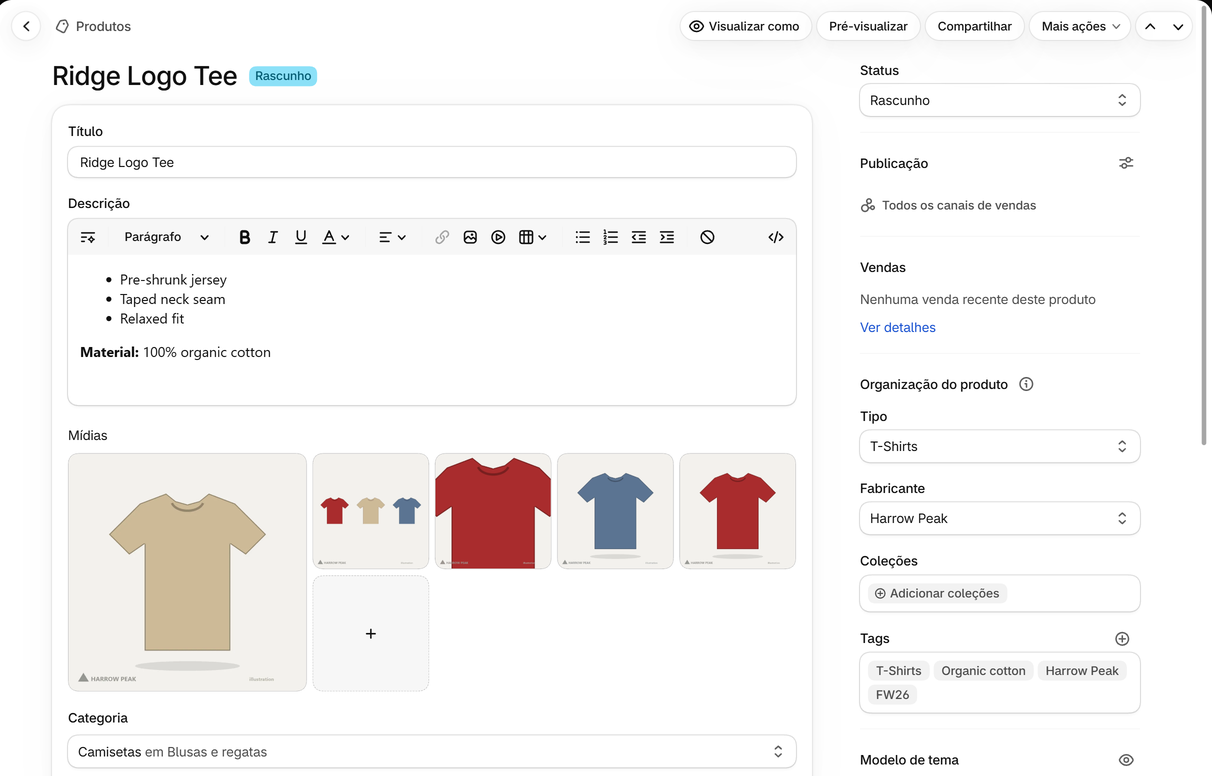
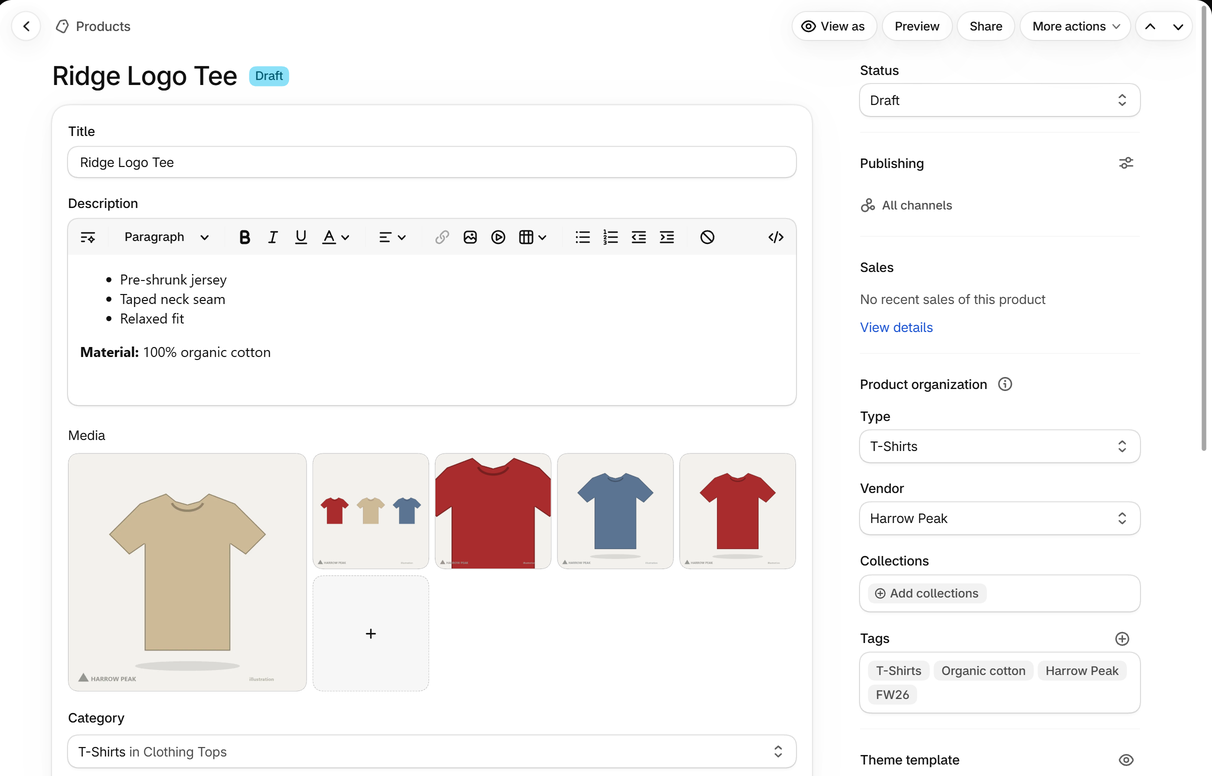
Home: add mini-case 06 (supplier file to Shopify)
Lists the mini-case on the home page so the site builds its page, and
replaces the two store screenshots with the admin in English.

diff --git a/minicases/06-supplier-file-to-shopify/index.html b/minicases/06-supplier-file-to-shopify/index.html
@@ -1,0 +1,348 @@
+<!doctype html>
+<html lang="en">
+<head>
+<meta charset="utf-8">
+<meta name="viewport" content="width=device-width, initial-scale=1">
+<title>Supplier price list to Shopify import: every row accounted for, and next month&#x27;s update in one run · Guilherme Teófilo</title>
+<meta name="description" content="Data cleaning, ETL, automation, web scraping and dashboards in Python, SQL, Excel and Looker Studio, with every number checked against its source.">
+<style>
+  :root { color-scheme: light; --page:#f9f9f7; --surface:#ffffff; --ink:#0b0b0b; --ink2:#52514e; --muted:#898781;
+          --line:#e1e0d9; --accent:#2a78d6; --code:#f3f2ee; }
+  @media (prefers-color-scheme: dark) {
+    :root { color-scheme: dark; --page:#0d0d0d; --surface:#1a1a19; --ink:#f0efec; --ink2:#c3c2b7; --muted:#898781;
+            --line:#2c2c2a; --accent:#3987e5; --code:#232322; }
+  }
+  * { box-sizing: border-box; }
+  body { margin:0; background:var(--page); color:var(--ink); font:16px/1.6 system-ui,-apple-system,"Segoe UI",sans-serif; }
+  header { border-bottom:1px solid var(--line); background:var(--surface); }
+  .bar { max-width:980px; margin:0 auto; padding:12px 16px; display:flex; gap:16px; align-items:center; flex-wrap:wrap; }
+  .brand { font-weight:700; color:var(--ink); text-decoration:none; margin-right:auto; }
+  .bar a.nav { color:var(--ink2); text-decoration:none; font-size:15px; }
+  .bar a.nav:hover { color:var(--accent); }
+  main { max-width:980px; margin:0 auto; padding:24px 16px 48px; }
+  h1 { font-size:30px; line-height:1.25; margin:8px 0 16px; }
+  h2 { font-size:22px; margin:36px 0 12px; padding-top:8px; border-top:1px solid var(--line); }
+  a { color:var(--accent); }
+  img { max-width:100%; height:auto; border:1px solid var(--line); border-radius:8px; }
+  blockquote { margin:16px 0; padding:10px 16px; border-left:4px solid var(--accent); background:var(--surface); color:var(--ink2); }
+  blockquote p { margin:4px 0; }
+  .table-wrap { overflow-x:auto; margin:16px 0; }
+  table { border-collapse:collapse; width:100%; font-size:15px; background:var(--surface); }
+  th, td { border:1px solid var(--line); padding:8px 10px; text-align:left; vertical-align:top; }
+  th { background:var(--code); }
+  td img { border:none; }
+  code { background:var(--code); padding:1px 5px; border-radius:4px; font-size:14px; }
+  pre { background:var(--code); padding:12px 14px; border-radius:8px; overflow-x:auto; }
+  pre code { padding:0; background:none; }
+  pre.mermaid { background:var(--surface); border:1px solid var(--line); text-align:center; }
+  footer { max-width:980px; margin:0 auto; padding:16px 16px 40px; color:var(--muted); font-size:13px; border-top:1px solid var(--line); }
+</style>
+</head>
+<body>
+<header><div class="bar">
+  <a class="brand" href="../../">Guilherme Teófilo · Data analyst</a>
+  <a class="nav" href="../../#case-studies">Case studies</a>
+  <a class="nav" href="../../#mini-cases">Mini-cases</a>
+  <a class="nav" href="../../output/2026-10/dashboard.html">Live dashboard</a>
+  <a class="nav" href="https://github.com/guilhermelt-22/data-portfolio">Code on GitHub</a>
+</div></header>
+<main>
+<h1 id="supplier-price-list-to-shopify-import-every-row-accounted-for-and-next-months-update-in-one-run">Supplier price list to Shopify import: every row accounted for, and next month's update in one run</h1>
+<blockquote>
+<p><strong>Demonstration with fictitious data.</strong> Harrow Peak Wholesale, its products and barcodes are invented. The
+product images are simple illustrations drawn by code (<a href="https://github.com/guilhermelt-22/data-portfolio/blob/main/minicases/06-supplier-file-to-shopify/vendorfeed/art.py"><code>art.py</code></a>) and served from this
+site. The output follows the column list of Shopify's own sample product CSV and the rules in Shopify's Help
+Center, and both months were imported into a Shopify development store on 13 Nov 2026: products, variants,
+stock, status and prices matched the files (details below).</p>
+</blockquote>
+<p><img alt="Import report" src="img/report.png" /></p>
+<div class="table-wrap"><table>
+<thead>
+<tr>
+<th></th>
+<th></th>
+</tr>
+</thead>
+<tbody>
+<tr>
+<td><strong>Task</strong></td>
+<td>A store owner gets the supplier's price list in Excel every month and needs it in Shopify's product CSV: one product per style, colour and size as variants, prices, stock, barcodes and images. Doing it by hand takes hours each time the supplier updates prices.</td>
+</tr>
+<tr>
+<td><strong>Solution</strong></td>
+<td>Python and pandas · finds the header under title rows and maps renamed columns · standardises colours, sizes, weights and barcodes · writes Shopify's 61-column format · 11 checks against Shopify's rules before upload · next month: a change report and three update files</td>
+</tr>
+<tr>
+<td><strong>Records</strong></td>
+<td>First list: <strong>343 product rows</strong> → <strong>37 products, 314 variants</strong>, 8 rows held back with a question each. Second list: <strong>31 price changes</strong>, 3 new products, 6 new variants, 3 products to archive</td>
+</tr>
+<tr>
+<td><strong>Time</strong></td>
+<td><strong>0.7 seconds</strong> for the first import · <strong>0.9 seconds</strong> for next month's update, change report included</td>
+</tr>
+</tbody>
+</table></div>
+<h2 id="how-it-works">How it works</h2>
+<ol>
+<li><strong>Read the file as it arrives.</strong> The header is found wherever it is (here on row 4, under the supplier's
+   name and a note). Title rows, category banners and footer notes are labelled and set aside. Column names are
+   matched through a list of aliases, so next month's file can say "SKU" instead of "Item #" and "Retail"
+   instead of "MSRP", in a different order, and still read the same.</li>
+<li><strong>Clean each field, and log every change with its row number.</strong> "NVY", "navy" and "Navy" become Navy;
+   "LG", "lrg" and "Large" become L; "3.2 oz", "1.1 lbs" and "0.38 kg" become grams; "$12.50" becomes 12.50.
+   Product titles come from the shared start of the variants' descriptions ("MERINO HIKER SOCK NVY S" →
+   Merino Hiker Sock), and handles from the titles.</li>
+<li><strong>Never guess where the store owner should decide.</strong> The same SKU twice with different prices, two SKUs for
+   the same colour and size, or a row with no price at all is held back, with the question to answer. A
+   missing retail price is filled by a markup rule the store owner sets (here wholesale × 2, ending in .99) and
+   flagged for confirmation.</li>
+<li><strong>Write Shopify's format exactly.</strong> The 61 columns of Shopify's sample file, in the same order and spelling.
+   The first row of a product carries the product fields, each variant is a row with the same handle, and
+   each extra image is a row of its own. Products arrive as <strong>drafts</strong>, so nothing goes live before review.
+   The product category goes in as its Shopify taxonomy ID (<code>aa-1-18</code> for socks): the test import rejected the
+   English category path and accepted the IDs, which also work whatever language the store admin uses.</li>
+<li><strong>Check before upload.</strong> A Shopify import cannot be cancelled or undone, so the file is checked first:</li>
+</ol>
+<div class="table-wrap"><table>
+<thead>
+<tr>
+<th>Check</th>
+<th>Result on the first list</th>
+</tr>
+</thead>
+<tbody>
+<tr>
+<td>Headers match Shopify's template</td>
+<td>61 columns, same names and order</td>
+</tr>
+<tr>
+<td>File: UTF-8, LF line endings, under 15 MB</td>
+<td>105 KB</td>
+</tr>
+<tr>
+<td>Every product: valid handle, one title row</td>
+<td>37 products</td>
+</tr>
+<tr>
+<td>Options: at most 3, one variant per combination</td>
+<td>314 variants</td>
+</tr>
+<tr>
+<td>SKUs unique</td>
+<td>314 SKUs</td>
+</tr>
+<tr>
+<td>Prices: numbers above zero, never below cost</td>
+<td>all</td>
+</tr>
+<tr>
+<td>Barcodes: valid check digit</td>
+<td>306 valid, 8 left blank on purpose</td>
+</tr>
+<tr>
+<td>Images: HTTPS, unique, positions from 1</td>
+<td>152 image rows</td>
+</tr>
+<tr>
+<td>Text limits (SEO title 70, SEO description 320, alt text 512)</td>
+<td>all within</td>
+</tr>
+<tr>
+<td>Allowed values (status, true/false, inventory, weight unit)</td>
+<td>all accepted</td>
+</tr>
+<tr>
+<td><strong>Every supplier row accounted for</strong></td>
+<td><strong>343 = 314 imported + 6 duplicates + 8 held back + 15 discontinued</strong></td>
+</tr>
+</tbody>
+</table></div>
+<h2 id="what-the-first-list-had-in-it">What the first list had in it</h2>
+<p>The October file was built with these problems on purpose. The tests check that every one is caught.</p>
+<div class="table-wrap"><table>
+<thead>
+<tr>
+<th>Problem</th>
+<th>Rows</th>
+<th>What happened</th>
+</tr>
+</thead>
+<tbody>
+<tr>
+<td>Colours and sizes spelled several ways</td>
+<td>257 and 222</td>
+<td>Standardised</td>
+</tr>
+<tr>
+<td>Barcode lost its leading zero in Excel (11 digits)</td>
+<td>7</td>
+<td>Zero restored; check digit confirms it</td>
+</tr>
+<tr>
+<td>Barcode turned into <code>8.40123E+11</code> by Excel</td>
+<td>5</td>
+<td>Left blank: the digits are gone, the supplier has to resend them</td>
+</tr>
+<tr>
+<td>Barcode fails the check digit</td>
+<td>3</td>
+<td>Left blank, flagged</td>
+</tr>
+<tr>
+<td>Stock written as "50+", "-" or "N/A"</td>
+<td>9</td>
+<td>50, or 0 with a flag</td>
+</tr>
+<tr>
+<td>No retail price for three styles</td>
+<td>15</td>
+<td>Priced by the markup rule, flagged for confirmation</td>
+</tr>
+<tr>
+<td>Image links on http://</td>
+<td>2 styles</td>
+<td>Left out (Shopify only downloads HTTPS images), flagged</td>
+</tr>
+<tr>
+<td>Exact duplicate rows</td>
+<td>6</td>
+<td>Removed</td>
+</tr>
+<tr>
+<td>Same SKU with two wholesale prices</td>
+<td>2 SKUs</td>
+<td>Held back: which one is right?</td>
+</tr>
+<tr>
+<td>Two SKUs for the same colour and size</td>
+<td>1 pair</td>
+<td>Held back: which SKU should the store use?</td>
+</tr>
+<tr>
+<td>No price at all</td>
+<td>2</td>
+<td>Held back</td>
+</tr>
+<tr>
+<td>Discontinued items</td>
+<td>15</td>
+<td>Left out</td>
+</tr>
+</tbody>
+</table></div>
+<h2 id="next-month-the-part-that-repeats">Next month: the part that repeats</h2>
+<p>The November list renames and reorders the columns, raises prices on four styles, changes ten single
+prices, adds three products and a new colour, and drops three products. Compared SKU by SKU with what was
+imported in October:</p>
+<div class="table-wrap"><table>
+<thead>
+<tr>
+<th>Change</th>
+<th>Count</th>
+</tr>
+</thead>
+<tbody>
+<tr>
+<td>Price changes</td>
+<td>31 (24 up, 7 down)</td>
+</tr>
+<tr>
+<td>Cost up, retail unchanged: the margin falls</td>
+<td>8</td>
+</tr>
+<tr>
+<td>Stock changes</td>
+<td>263</td>
+</tr>
+<tr>
+<td>New products</td>
+<td>3</td>
+</tr>
+<tr>
+<td>New variants of existing products</td>
+<td>6 (a new colour, plus the 3 rows held back in October, now resolved)</td>
+</tr>
+<tr>
+<td>Products to archive</td>
+<td>3</td>
+</tr>
+</tbody>
+</table></div>
+<p>Three files come out, each meant for Shopify's import with <strong>"Overwrite products with matching handles"</strong>:</p>
+<ul>
+<li><code>new_products.csv</code>: the new products in full, as drafts</li>
+<li><code>update_existing.csv</code>: only the columns that change (price, cost, stock, barcode) plus what Shopify needs
+  to find each variant. Shopify leaves the columns that are not in the file untouched, so descriptions and
+  photos edited in the store stay as they are. Every variant of a changed product is listed. New variants
+  arrive without a photo, and the change report lists them.</li>
+<li><code>archive.csv</code>: products the supplier no longer sells, set to archived instead of deleted, so order history
+  keeps them</li>
+</ul>
+<h2 id="tested-in-a-real-shopify-store">Tested in a real Shopify store</h2>
+<p>Both months were imported into a Shopify development store, and the store was compared with the files:</p>
+<div class="table-wrap"><table>
+<thead>
+<tr>
+<th>Step</th>
+<th>What the store showed</th>
+</tr>
+</thead>
+<tbody>
+<tr>
+<td>October import</td>
+<td>37 products as drafts, 314 variants, 152 images; stock and variant count matched for all 37</td>
+</tr>
+<tr>
+<td>November: new products</td>
+<td>3 products, 19 variants</td>
+</tr>
+<tr>
+<td>November: update</td>
+<td>Prices changed (one hoodie from $64.99 to $70.99), 6 new variants added, stock matched for all 40 products, descriptions and photos untouched</td>
+</tr>
+<tr>
+<td>November: archive</td>
+<td>3 products archived, their variants kept</td>
+</tr>
+</tbody>
+</table></div>
+<p>The test import also caught three things the documentation does not say, now handled in the code:</p>
+<ol>
+<li>The product category written as an English path was rejected; the taxonomy ID is accepted.</li>
+<li>A variant image is refused unless the image itself is in the same file, so the update file has no image
+   columns (adding the product images would replace the store's photos).</li>
+<li>Changing only the status still needs every variant's options, so <code>archive.csv</code> lists them.</li>
+</ol>
+<p><img alt="The October import in the Shopify admin" src="img/shopify_products.png" /></p>
+<h2 id="deliverables">Deliverables</h2>
+<ul>
+<li><a href="output/october/shopify_products.csv"><code>shopify_products.csv</code></a>: the import file</li>
+<li><a href="output/october/import_report.xlsx"><code>import_report.xlsx</code></a>: checks, questions for the store owner, every fix
+  with its row, the product list, and the fate of every supplier row</li>
+<li><a href="output/october/import_report.html"><code>import_report.html</code></a>: the page in the picture</li>
+<li>November: <a href="output/november/changes_report.xlsx"><code>changes_report.xlsx</code></a>,
+  <a href="output/november/new_products.csv"><code>new_products.csv</code></a>, <a href="output/november/update_existing.csv"><code>update_existing.csv</code></a>,
+  <a href="output/november/archive.csv"><code>archive.csv</code></a></li>
+<li>The two supplier files: <a href="input/harrow_peak_fw26_october.xlsx"><code>october</code></a>, <a href="input/harrow_peak_fw26_november.xlsx"><code>november</code></a></li>
+</ul>
+<h2 id="run-it">Run it</h2>
+<pre><code class="language-bash">cd minicases/06-supplier-file-to-shopify
+python -m vendorfeed.demo        # builds both supplier files and runs both months
+python -m vendorfeed.art         # draws the product illustrations the files link to
+python -m vendorfeed.run input/harrow_peak_fw26_october.xlsx --out output/october
+python -m vendorfeed.run input/harrow_peak_fw26_november.xlsx --out output/november --previous output/october
+pytest                           # 14 tests, offline
+</code></pre>
+<p>A new supplier usually means a few lines in <a href="https://github.com/guilhermelt-22/data-portfolio/blob/main/minicases/06-supplier-file-to-shopify/vendorfeed/config.py"><code>config.py</code></a>: column aliases, category
+mapping, colour and size spellings, markup rule and default status. The code stays the same.</p>
+<p>Code: <a href="https://github.com/guilhermelt-22/data-portfolio/blob/main/minicases/06-supplier-file-to-shopify/vendorfeed/read.py"><code>read.py</code></a> · <a href="https://github.com/guilhermelt-22/data-portfolio/blob/main/minicases/06-supplier-file-to-shopify/vendorfeed/clean.py"><code>clean.py</code></a> · <a href="https://github.com/guilhermelt-22/data-portfolio/blob/main/minicases/06-supplier-file-to-shopify/vendorfeed/shopify.py"><code>shopify.py</code></a> ·
+<a href="https://github.com/guilhermelt-22/data-portfolio/blob/main/minicases/06-supplier-file-to-shopify/vendorfeed/checks.py"><code>checks.py</code></a> · <a href="https://github.com/guilhermelt-22/data-portfolio/blob/main/minicases/06-supplier-file-to-shopify/vendorfeed/diff.py"><code>diff.py</code></a> · <a href="https://github.com/guilhermelt-22/data-portfolio/blob/main/minicases/06-supplier-file-to-shopify/vendorfeed/report.py"><code>report.py</code></a></p>
+</main>
+<footer>Demo data only: fictitious companies and figures, scraping practice sites and official public sources, each named on its page.</footer>
+<script type="module">
+  import mermaid from "https://cdn.jsdelivr.net/npm/mermaid@10.9.1/dist/mermaid.esm.min.mjs";
+  const dark = window.matchMedia("(prefers-color-scheme: dark)").matches;
+  mermaid.initialize({ startOnLoad: true, theme: dark ? "dark" : "neutral" });
+</script>
+</body>
+</html>

diff --git a/index.html b/index.html
@@ -104,7 +104,8 @@ Case 04 collects its data from the web, from two sites built for scraping practi
 <h2 id="mini-cases">Mini-cases</h2>
 <p>Short demos with one job each, in the format clients ask for: the task, the solution, how many records and
 how long it took. The scraping ones run on practice sites built for scraping; the exchange rates come from an
-official public API. Every number was measured on a real run.</p>
+official public API; the Shopify one uses a fictitious supplier and was tested in a Shopify development store.
+Every number was measured on a real run.</p>
 <div class="table-wrap"><table>
 <thead>
 <tr>
@@ -138,6 +139,12 @@ official public API. Every number was measured on a real run.</p>
 <td>Official API, incremental updates, TARGET holidays, checks for gaps and duplicates, CSV and Excel</td>
 <td><strong>263,715 rates</strong>, 44 currencies, daily since 1999</td>
 <td>14 s in full, 0.7 s per update</td>
+</tr>
+<tr>
+<td><a href="minicases/06-supplier-file-to-shopify/"><strong>06 · Supplier file to Shopify</strong></a></td>
+<td>A messy supplier price list becomes Shopify's product CSV, checked before upload; next month's list becomes a change report and update files</td>
+<td><strong>343 rows → 37 products, 314 variants</strong>, every row accounted for; both months tested in a Shopify store</td>
+<td>0.7 s, 0.9 s for the update</td>
 </tr>
 </tbody>
 </table></div>

diff --git a/README.md b/README.md
@@ -37,7 +37,8 @@ Case 04 collects its data from the web, from two sites built for scraping practi
 
 Short demos with one job each, in the format clients ask for: the task, the solution, how many records and
 how long it took. The scraping ones run on practice sites built for scraping; the exchange rates come from an
-official public API. Every number was measured on a real run.
+official public API; the Shopify one uses a fictitious supplier and was tested in a Shopify development store.
+Every number was measured on a real run.
 
 | Mini-case | Task | Records | Time |
 |---|---|---|---|
@@ -45,6 +46,7 @@ official public API. Every number was measured on a real run.
 | [**02 · Playwright for JavaScript pages**](minicases/02-playwright-js-pages/README.md) | Infinite scroll read to the end, next to a plain request that sees nothing | **100 of 100 quotes**; the plain request found 0 | 26 s for the scroll |
 | [**03 · Crawl coverage report**](minicases/03-coverage-report/README.md) | Every discovered URL ends collected, failed with its reason, or excluded; checkpoint and resume after the process is killed | **1,103 URLs**, every one accounted for; 999 books; both injected failures caught | 17.5 min at 1 request per second, killed and resumed |
 | [**04 · ECB exchange rates**](minicases/04-ecb-fx-rates/README.md) | Official API, incremental updates, TARGET holidays, checks for gaps and duplicates, CSV and Excel | **263,715 rates**, 44 currencies, daily since 1999 | 14 s in full, 0.7 s per update |
+| [**06 · Supplier file to Shopify**](minicases/06-supplier-file-to-shopify/README.md) | A messy supplier price list becomes Shopify's product CSV, checked before upload; next month's list becomes a change report and update files | **343 rows → 37 products, 314 variants**, every row accounted for; both months tested in a Shopify store | 0.7 s, 0.9 s for the update |
 
 ## Run it yourself
 
